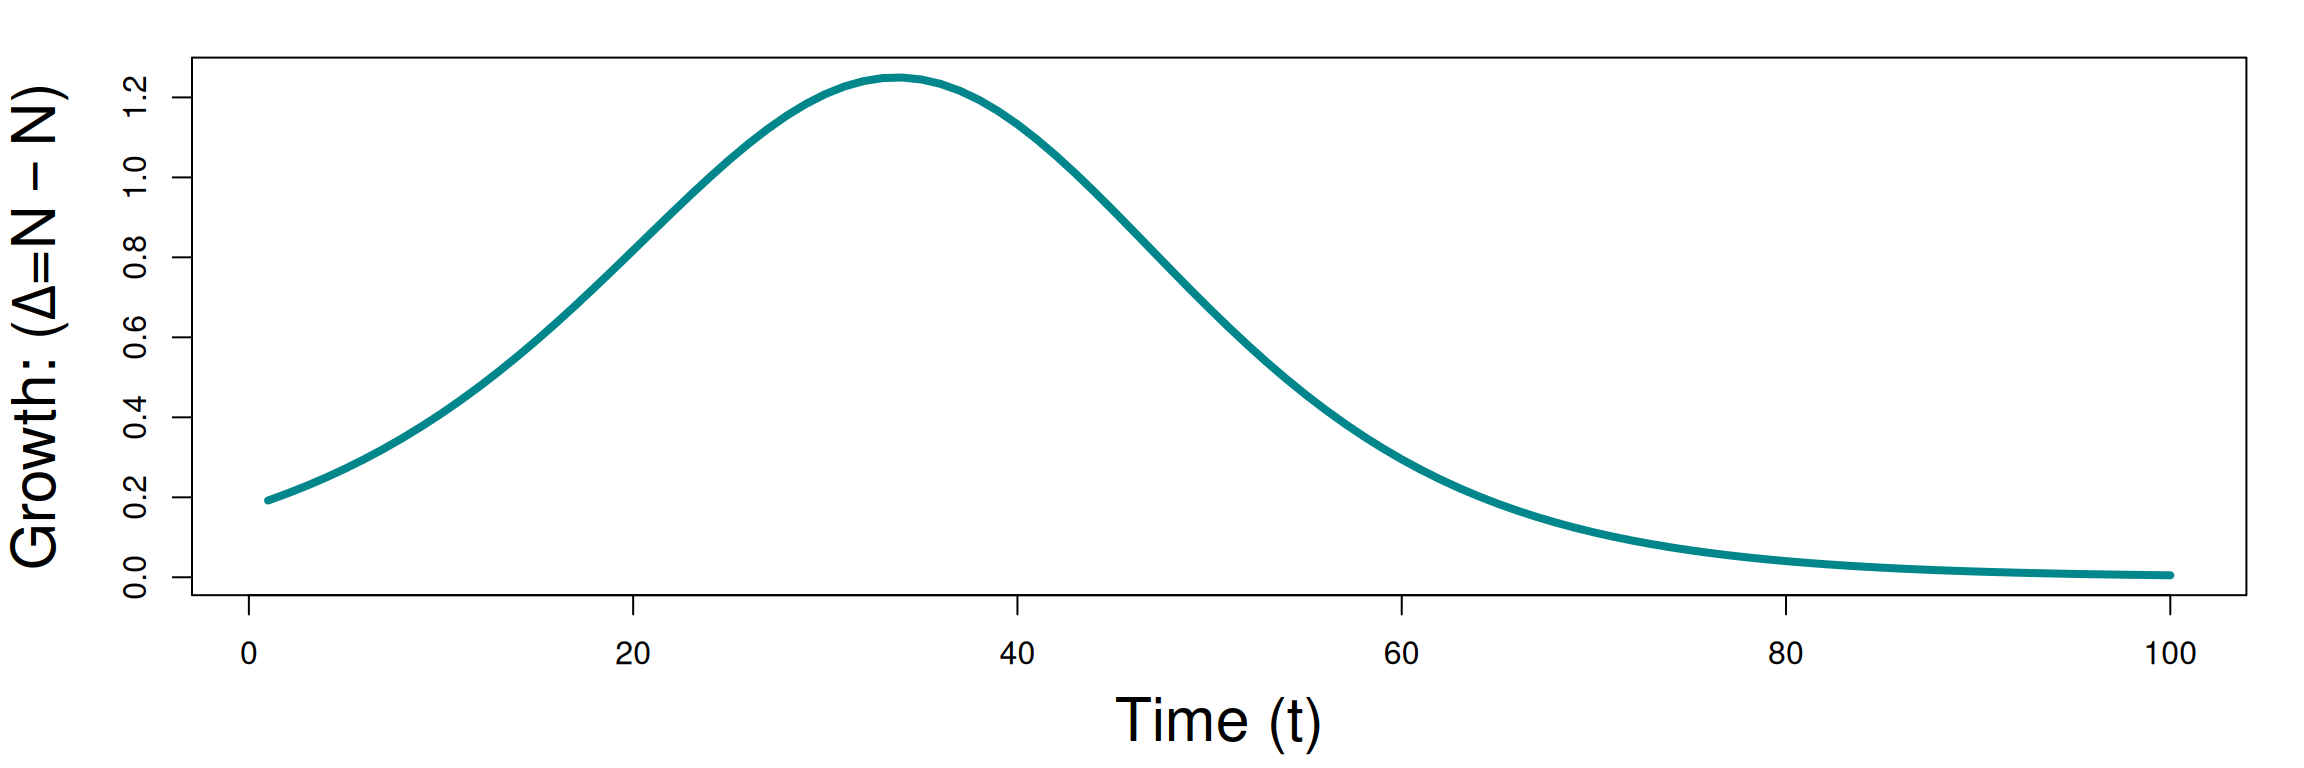
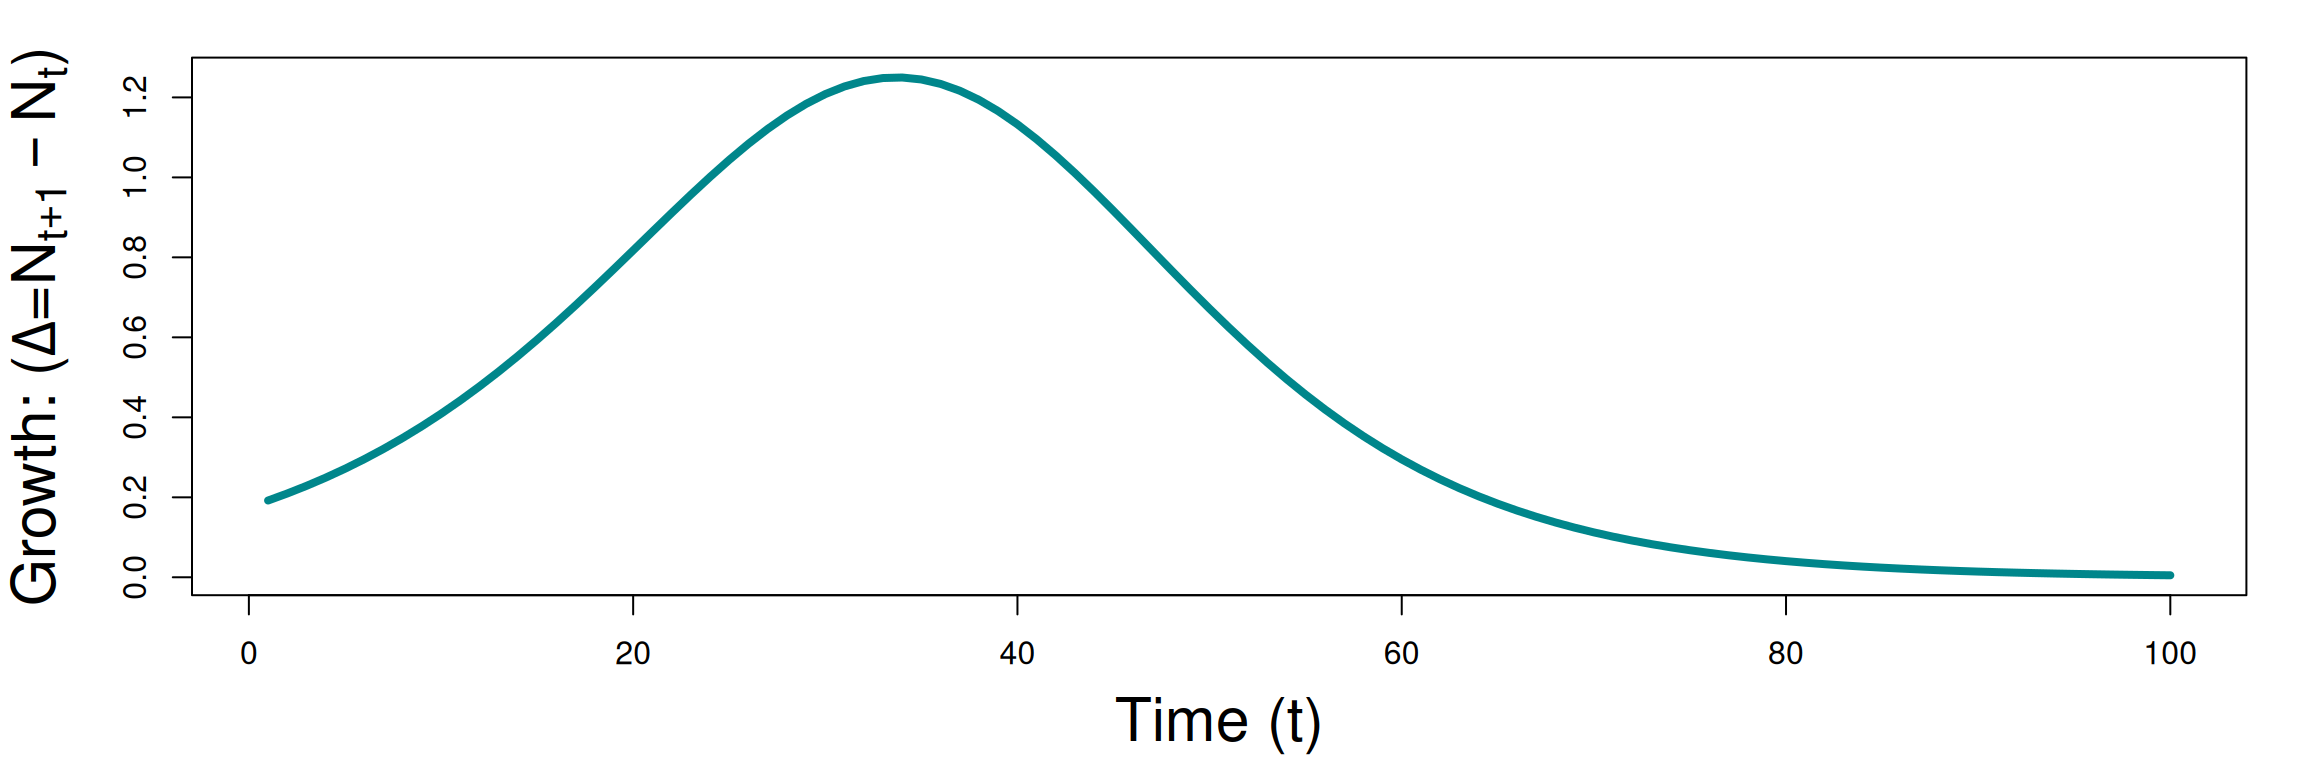
logistic

Changed region(s): [[0.0, 0.2188, 0.0312, 0.7812], [0.0, 0.0625, 0.0312, 0.1875]]

diff --git a/docs/lectures/logistic-growth/lecture-logistic-growth.html b/docs/lectures/logistic-growth/lecture-logistic-growth.html
@@ -192,32 +192,44 @@ WILD 5700/7700</p>
 <center>
 <div class="r-stack">
 <div class="fragment fade-out" data-fragment-index="1">
-<p><img data-src="lecture-logistic-growth_files/figure-revealjs/geom-1.png"></p>
+<p><img data-src="lecture-logistic-growth_files/figure-revealjs/geom-1.png" style="width:90.0%"></p>
 </div>
 <div class="fragment fade-in" data-fragment-index="1">
-<p><img data-src="lecture-logistic-growth_files/figure-revealjs/geom-logistic-1.png"></p>
+<p><img data-src="lecture-logistic-growth_files/figure-revealjs/geom-logistic-1.png" style="width:90.0%"></p>
 </div>
 </div>
 </center>
 </section>
-<section id="growth-rate-lambda_t-n_t1n_t" class="slide level2">
-<h2>Growth rate (<span class="math inline">\(\lambda_t = N_{t+1}/N_t\)</span>)</h2>
+<section id="growth-rate" class="slide level2">
+<h2>Growth rate</h2>
+<div style="font-size: 70%;">
+<p><span class="math display">\[\lambda_t = N_{t+1}/N_t\]</span></p>
+</div>
 <center>
 <!-- ::: {.r-stack} -->
 <!-- ::: {.fragment .fade-out fragment-index=1} -->
-<img data-src="lecture-logistic-growth_files/figure-revealjs/lr1-1.png" style="width:80.0%"> <!-- ::: --> <!-- ::: {.fragment .fade-in fragment-index=1} --> <img data-src="lecture-logistic-growth_files/figure-revealjs/lambda-1.png" style="width:80.0%"> <!-- ::: -->
+<p><img data-src="lecture-logistic-growth_files/figure-revealjs/lr1-1.png" style="width:70.0%"> <!-- ::: --></p>
+<div class="fragment">
+<p><img data-src="lecture-logistic-growth_files/figure-revealjs/lambda-1.png" style="width:70.0%"></p>
+</div>
 </center>
 </section>
-<section id="growth-delta_tn_t1-n_t" class="slide level2">
-<h2>Growth (<span class="math inline">\(\Delta_t=N_{t+1}-N_t\)</span>)</h2>
+<section id="growth" class="slide level2">
+<h2>Growth</h2>
+<div style="font-size: 70%;">
+<p><span class="math display">\[\Delta_t=N_{t+1}-N_t\]</span></p>
+</div>
 <center>
 <!-- ::: {.r-stack} -->
 <!-- ::: {.fragment .fade-out fragment-index=1} -->
-<img data-src="lecture-logistic-growth_files/figure-revealjs/lr2-1.png" style="width:80.0%"> <!-- ::: --> <!-- ::: {.fragment .fade-in fragment-index=1} --> <img data-src="lecture-logistic-growth_files/figure-revealjs/delta-1.png" style="width:80.0%"> <!-- ::: -->
+<p><img data-src="lecture-logistic-growth_files/figure-revealjs/lr2-1.png" style="width:70.0%"> <!-- ::: --></p>
+<div class="fragment">
+<p><img data-src="lecture-logistic-growth_files/figure-revealjs/delta-1.png" style="width:70.0%"></p>
+</div>
 </center>
 </section>
-<section id="growth-delta_tn_t1-n_t-as-a-function-of-n" class="slide level2">
-<h2>Growth (<span class="math inline">\(\Delta_t=N_{t+1}-N_t\)</span>) as a function of <span class="math inline">\(N\)</span></h2>
+<section id="growth-as-a-function-of-n" class="slide level2">
+<h2>Growth as a function of <span class="math inline">\(N\)</span></h2>
 
 <!-- <center> -->
 <!--   ![](lecture-logistic-growth_files/figure-revealjs/delta-N-1) -->
@@ -244,22 +256,24 @@ WILD 5700/7700</p>
 </section>
 <section id="definitions" class="slide level2">
 <h2>Definitions</h2>
-<section id="overcompensation" class="beamer-block">
-<h4>Overcompensation</h4>
-<div class="beamer-block-content">
-<p>Density-dependent response in which populations over- or under-shoot carrying capacity rather than approach it gradually.</p>
+<p><br></p>
+<!-- ::: {.beamer-block} -->
+<!-- #### Overcompensation -->
+<p><strong>Overcompensation</strong></p>
+<!-- ::: {.beamer-block-content} -->
+<p>Density-dependent response in which populations over- or under-shoot carrying capacity rather than approach it gradually. <!-- ::: --></p>
+<!-- ::: -->
+<p><br></p>
+<div class="fragment">
+<!-- ::: {.beamer-block} -->
+<h4 id="chaos">Chaos</h4>
+<!-- ::: {.beamer-block-content} -->
+<p>Highly variable deterministic dynamics that are extremely sensitive to small changes in parameters. <!-- ::: --></p>
+<!-- ::: -->
 </div>
-</section>
-</section>
-<section class="slide level2">
+</section></section>
+<section>
 
-<section id="chaos" class="beamer-block">
-<h4>Chaos</h4>
-<div class="beamer-block-content">
-<p>Highly variable deterministic dynamics that are extremely sensitive to small changes in parameters.</p>
-</div>
-</section>
-</section>
 <section id="assumptions-of-basic-model" class="slide level2">
 <h2>Assumptions of basic model</h2>
 <ul>
@@ -285,8 +299,8 @@ WILD 5700/7700</p>
 <aside><ol class="aside-footnotes"><li id="fn2"><p>Data from Sæther et al.&nbsp;(2002). Figure from Krebs (2014)</p></li></ol></aside></section></section>
 <section>
 
-<section id="summary-and-assignment" class="slide level2">
-<h2>Summary and assignment</h2>
+<section id="section-1" class="slide level2">
+<h2></h2>
 <p><strong>Summary</strong></p>
 <div style="font-size: 75%;">
 <ul>
